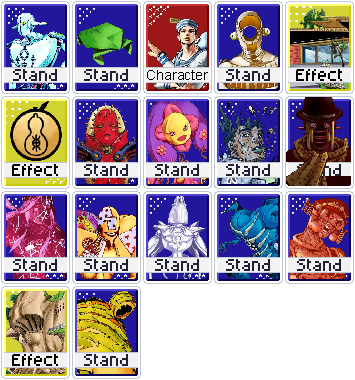
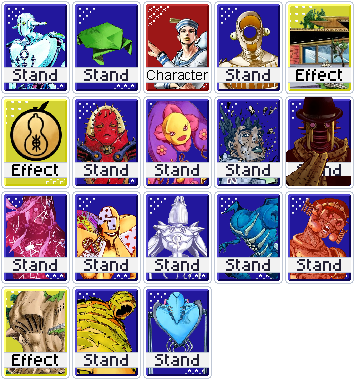
Add Doggy Style joker

Changed region(s): [[0.4028, 0.7526, 0.5887, 1.0]]

diff --git a/compendium/tests/test_build.py b/compendium/tests/test_build.py
@@ -28,7 +28,7 @@ def test_outputs_exist(site):
 
 
 def test_data_has_every_joker(data):
-    assert len(data["jokers"]) == 184 and data["version"] == "v9.9.9"
+    assert len(data["jokers"]) == 185 and data["version"] == "v9.9.9"
     assert len(data["themes"]) == 58
 
 

diff --git a/compendium/tests/test_lua_env.py b/compendium/tests/test_lua_env.py
@@ -7,7 +7,7 @@ def find(mod, key):
 
 
 def test_loads_every_joker(mod):
-    assert len(mod.jokers) == 184
+    assert len(mod.jokers) == 185
 
 
 def test_order_is_collection_order(mod):
